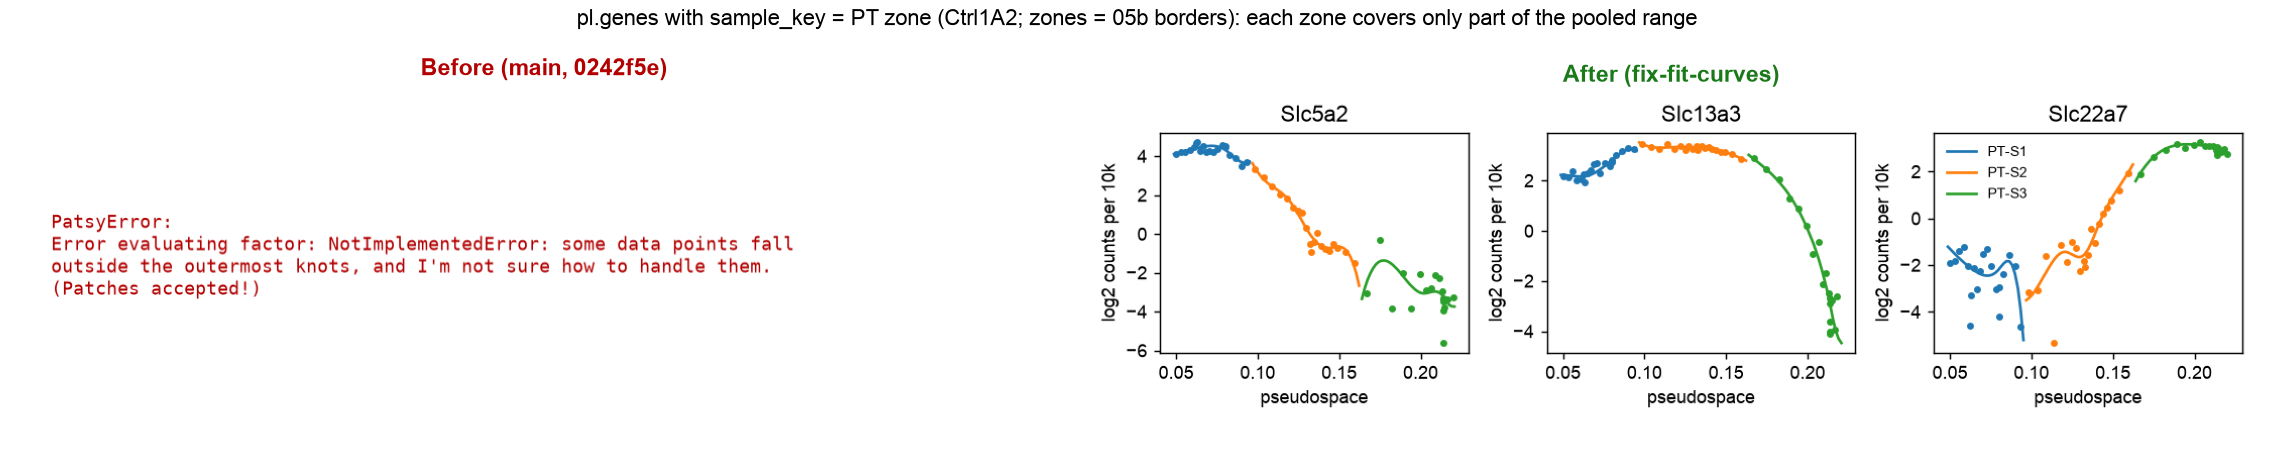
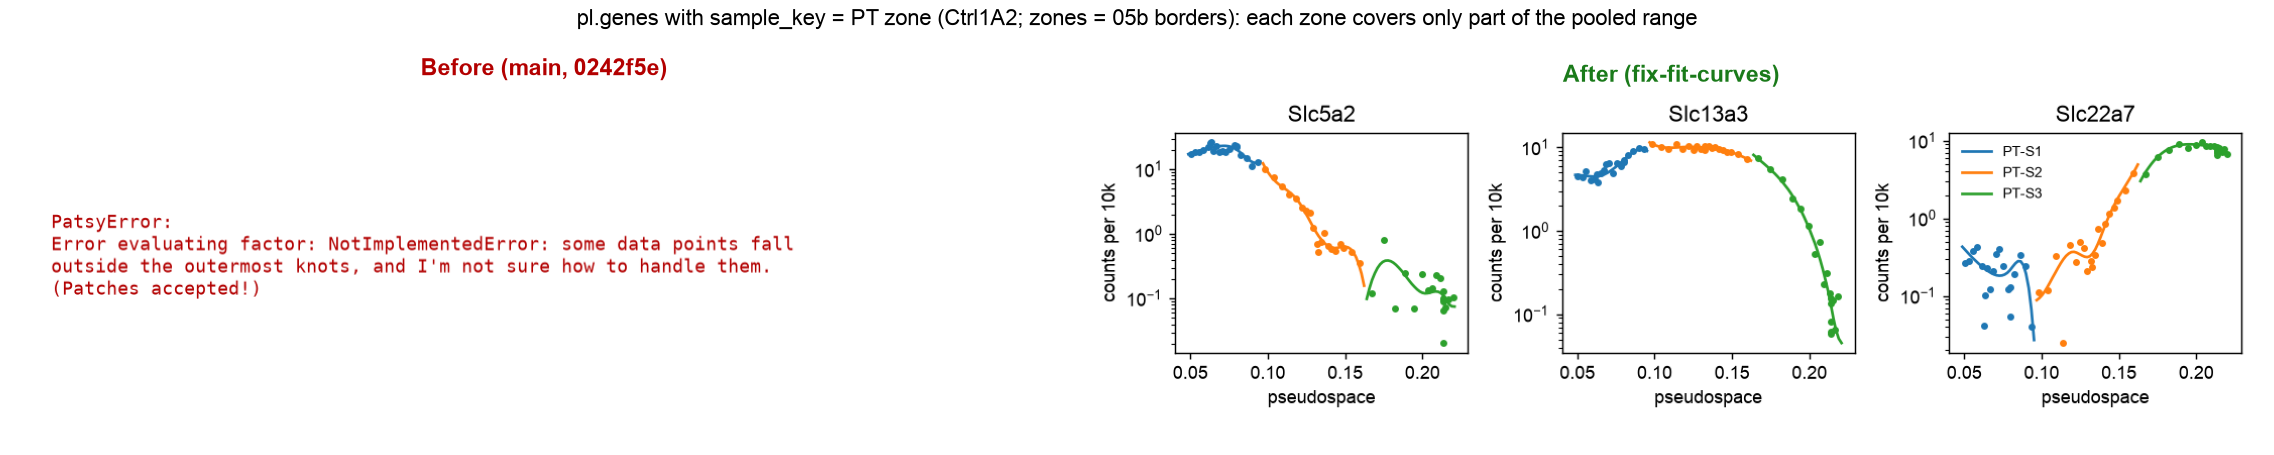
pl.genes: counts per 10k on a log axis instead of log2 counts per 10k

diff --git a/coast/pl.py b/coast/pl.py
@@ -61,7 +61,7 @@ def genes(adata: AnnData, genes: Sequence[str], x: str = "pseudostructure", samp
     """One panel per gene: equal-count bin means (points) and the fitted curve (line), per sample.
 
     Curves and points cover the 5th to 95th percentile of ``obs[x]`` over all units, the same range for every
-    sample (see `coast.tl.fit_curves`).
+    sample (see `coast.tl.fit_curves`). The y axis is counts per 10k on a log scale.
     """
     genes = list(genes)
     limits = np.percentile(adata.obs[x], [5, 95])
@@ -87,11 +87,10 @@ def genes(adata: AnnData, genes: Sequence[str], x: str = "pseudostructure", samp
         bin_x = [position[b].mean() for b in bins]
         curves = fit_curves(sub, genes, x=x, layer=layer, library=library, df=df, limits=limits)
         for j, (gene, ax) in enumerate(zip(genes, axes)):
-            with np.errstate(divide="ignore"):
-                bin_y = [np.log2(1e4 * counts[b, j].sum() / lib[b].sum()) for b in bins]
-            line, = ax.plot(curves.columns, curves.loc[gene], label=sample, color=colour)
+            bin_y = [1e4 * counts[b, j].sum() / lib[b].sum() for b in bins]   # bins with no counts are not drawn
+            line, = ax.plot(curves.columns, 2 ** curves.loc[gene], label=sample, color=colour)
             ax.scatter(bin_x, bin_y, s=8, color=line.get_color())
-            ax.set(title=gene, xlabel=x, ylabel="log2 counts per 10k")
+            ax.set(title=gene, xlabel=x, ylabel="counts per 10k", yscale="log")
     if sample_key is not None:
         axes[-1].legend(frameon=False, fontsize=8)
     return axes

diff --git a/docs/fix-fit-curves/README.md b/docs/fix-fit-curves/README.md
@@ -1,7 +1,9 @@
 # fix-fit-curves: before / after
 
 Same COAST calls on mouse kidney Visium HD proximal-tubule units (two healthy, two ischemia-reperfusion kidneys), run with
-`main` (0242f5e, left) and this branch (right). A call that raised is shown as its error.
+`main` (0242f5e, left) and this branch (right). A call that raised is shown as its error. On the branch, `pl.genes` draws
+counts per 10k on a log axis instead of log2 counts per 10k (same curves, readable units, no negative values; bins with no
+counts are not drawn).
 
 1. `pl.genes(..., sample_key="zone")`, one group per proximal-tubule zone: each zone covers only part of the pooled 5-95 %
    range, so `fit_curves` was asked to evaluate the spline outside the group's data and patsy raised. Now NaN there.
